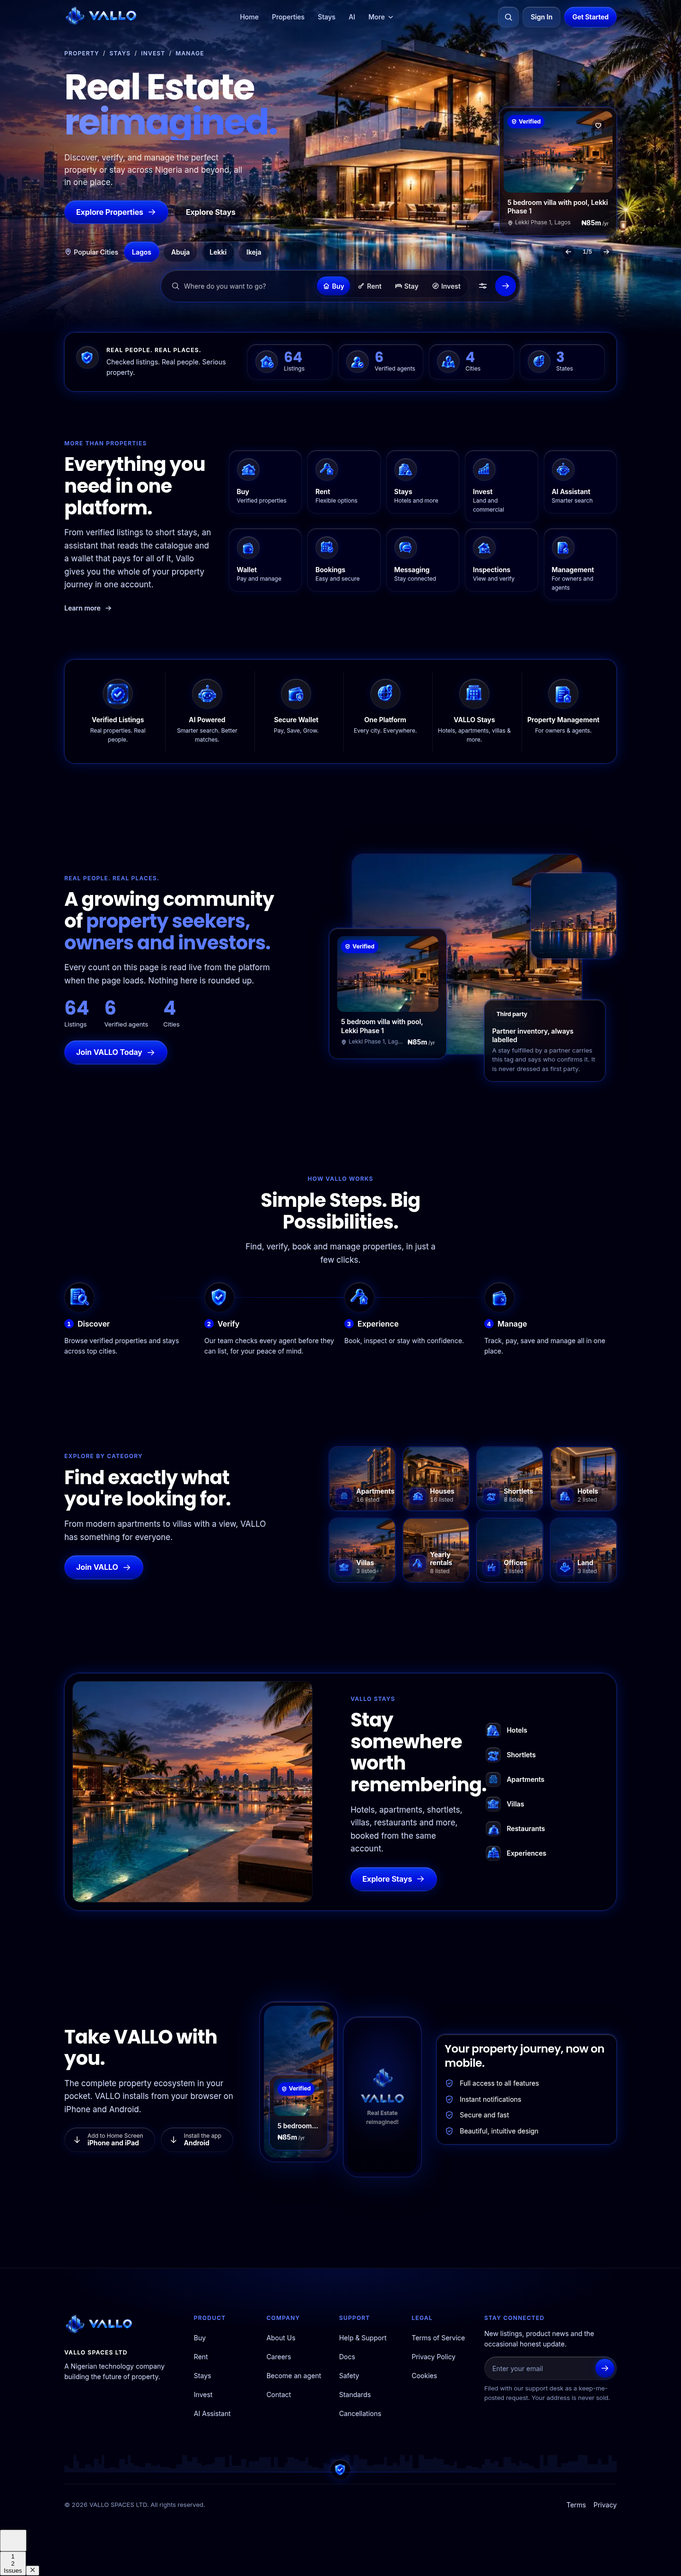
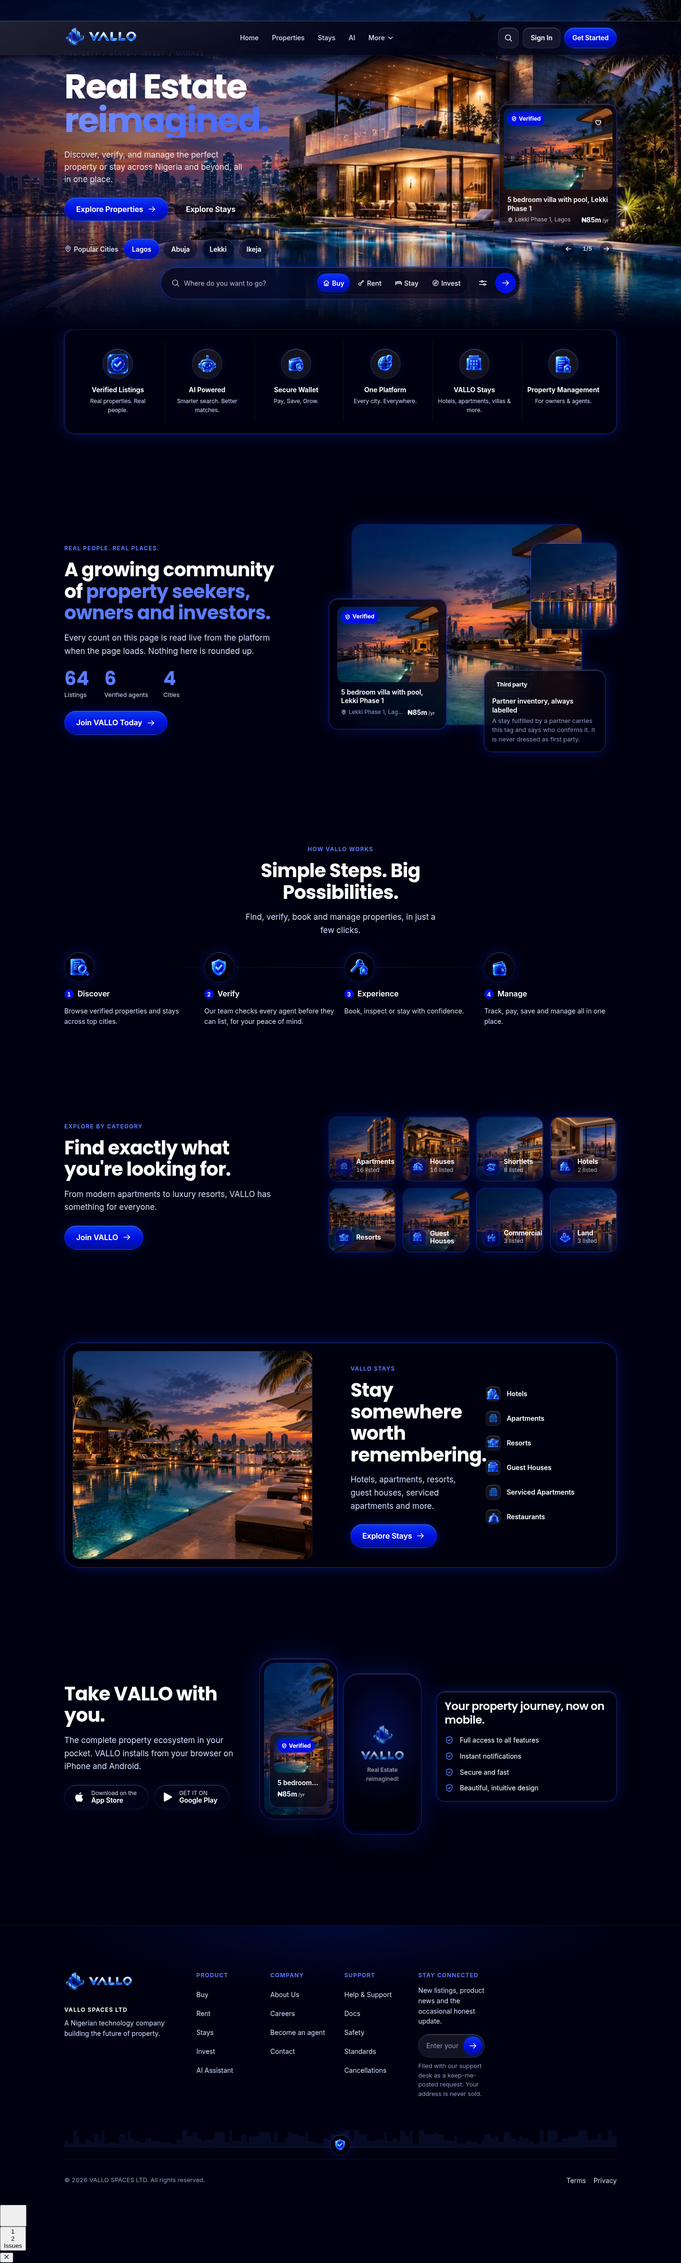
the landing takes the render's order and the render's eight markets
THE ORDER. Two sections stood between the hero and the feature band and
the founder's render has neither. The stats band printed the three
platform figures that the community band prints again two screens later,
so a reader met the same three numbers twice, and the community band is
where the render puts them. The ten-tile "Everything you need in one
platform" grid was navigation the render does not carry, and every
destination in it is reachable from the category tiles below or the
footer's Product column. Both are gone; the stat helper the community
band still needs moved to its own module beside its one caller.

THE EIGHT CATEGORY TILES are now the render's: Apartments, Houses,
Shortlets, Hotels, Resorts, Guest Houses, Commercial, Land. Resorts and
guest houses were left out on a reading that the catalogue does not serve
them. It does: resort and guest_house are stay types in
lib/stays/types.ts, so those two tiles are doors into the Stays search
rather than the property search, which is why a tile now carries its own
href instead of deriving one from a ListingKind. A tile that crosses to
the Stays side prints no count, because the tally counts property kinds
and cannot answer for a stay type, and no number is the honest answer.

THE SIX STAYS ROWS are the render's too: Hotels, Apartments, Resorts,
Guest Houses, Serviced Apartments, Restaurants, every one a stay type the
platform serves. All the new names are translated in Hausa, Igbo and
[…]

diff --git a/apps/web/src/components/site/landing/CategoryGrid.tsx b/apps/web/src/components/site/landing/CategoryGrid.tsx
@@ -11,13 +11,20 @@ import { photo, type PhotoName } from "@/lib/site/photos";
  * Explore by category: eight photo tiles linking to real searches.
  *
  * The render's eight are Apartments, Houses, Shortlets, Hotels, Resorts,
- * Guest Houses, Commercial, Land. Resorts and guest houses are not markets
- * this catalogue has, so a tile for either would link to an empty result,
- * and "Commercial" is two markets (shops, offices) behind one `type`. The
- * eight shipped are the eight real kinds with the most stock: villas and
- * yearly rentals take the two invented slots, and offices stand for
- * commercial. Shops and restaurants keep their place in the stays list and
- * the footer.
+ * Guest Houses, Commercial, Land, and all eight now ship, on the founder's
+ * ruling of 19 September.
+ *
+ * Resorts and guest houses were thought to be markets this catalogue does
+ * not have. They are: `resort` and `guest_house` are both stay types in
+ * lib/stays/types.ts, so those two tiles are doors into the Stays search
+ * rather than the property search, which is why a tile carries its own href
+ * instead of deriving one from a `ListingKind`. Commercial is the office
+ * market, which is the commercial stock the catalogue actually holds.
+ *
+ * A tile that crosses to the Stays side has no `kind`, so it prints no
+ * count: `counts` is a tally of property kinds and cannot answer for a stay
+ * type. No number is the honest answer there, and the design law allows a
+ * tile to stand on its name alone.
  *
  * COUNTS ARE SHOWN ONLY WHEN THEY ARE PROVABLY COMPLETE. `counts` is null
  * unless the page that computed it held the whole catalogue (see
@@ -40,15 +47,23 @@ export function CategoryGrid({
   /* The glyph on each tile is a glass object (the render draws a blue glass
      building in a glass square on every tile), so the whole row is on the
      BrandIcon tier: no stroked glyph sits beside a glass one. */
-  const tiles: { kind: ListingKind; label: string; photo: PhotoName; icon: BrandIconName }[] = [
-    { kind: "apartment", label: c.apartments, photo: "tower-entrance-dusk", icon: "serviced-block" },
-    { kind: "home", label: c.houses, photo: "villa-exterior-gate", icon: "modern-house" },
-    { kind: "shortlet", label: c.shortlets, photo: "villa-pool-terrace", icon: "shortlet" },
-    { kind: "hotel", label: c.hotels, photo: "bedroom-02", icon: "hotel" },
-    { kind: "villa", label: c.villas, photo: "villa-pool-skyline-01", icon: "villa" },
-    { kind: "rental", label: c.rentals, photo: "living-room-dusk", icon: "keys-home" },
-    { kind: "office", label: c.offices, photo: "skyline-waterfront-dusk", icon: "office-space" },
-    { kind: "land", label: c.land, photo: "skyline-bridge-dusk", icon: "land-plot" },
+  const tiles: {
+    key: string;
+    href: string;
+    /** Absent on a tile that crosses to the Stays side; see the note above. */
+    kind?: ListingKind;
+    label: string;
+    photo: PhotoName;
+    icon: BrandIconName;
+  }[] = [
+    { key: "apartment", href: "/search?type=apartment", kind: "apartment", label: c.apartments, photo: "tower-entrance-dusk", icon: "serviced-block" },
+    { key: "home", href: "/search?type=home", kind: "home", label: c.houses, photo: "villa-exterior-gate", icon: "modern-house" },
+    { key: "shortlet", href: "/search?type=shortlet", kind: "shortlet", label: c.shortlets, photo: "villa-pool-terrace", icon: "shortlet" },
+    { key: "hotel", href: "/search?type=hotel", kind: "hotel", label: c.hotels, photo: "bedroom-02", icon: "hotel" },
+    { key: "resort", href: "/stays/search?type=resort", label: c.resorts, photo: "resort-pool-deck", icon: "villa" },
+    { key: "guest_house", href: "/stays/search?type=guest_house", label: c.guestHouses, photo: "villa-pool-skyline-01", icon: "hotel-star" },
+    { key: "office", href: "/search?type=office", kind: "office", label: c.commercial, photo: "skyline-waterfront-dusk", icon: "office-space" },
+    { key: "land", href: "/search?type=land", kind: "land", label: c.land, photo: "skyline-bridge-dusk", icon: "land-plot" },
   ];
 
   return (
@@ -70,14 +85,10 @@ export function CategoryGrid({
         </Reveal>
         <ul className="nf-landing-cats">
           {tiles.map((tile, i) => {
-            const count = counts?.get(tile.kind) ?? 0;
+            const count = tile.kind ? (counts?.get(tile.kind) ?? 0) : 0;
             return (
-              <Reveal as="li" key={tile.kind} delay={i * 40}>
-                <Link
-                  href={`/search?type=${tile.kind}`}
-                  prefetch={false}
-                  className="nf-landing-cat"
-                >
+              <Reveal as="li" key={tile.key} delay={i * 40}>
+                <Link href={tile.href} prefetch={false} className="nf-landing-cat">
                   <Image
                     src={photo(tile.photo)}
                     alt=""

diff --git a/packages/i18n/src/locales/en.ts b/packages/i18n/src/locales/en.ts
@@ -478,29 +478,41 @@ export const en = {
       categories: {
         overline: "Explore by category",
         title: "Find exactly what you're looking for.",
-        body: "From modern apartments to villas with a view, VALLO has something for everyone.",
+        body: "From modern apartments to luxury resorts, VALLO has something for everyone.",
         join: "Join VALLO",
         apartments: "Apartments",
         houses: "Houses",
         shortlets: "Shortlets",
         hotels: "Hotels",
-        villas: "Villas",
-        rentals: "Yearly rentals",
-        offices: "Offices",
+        /* The founder's render names these three and the Stays side really
+           serves all three, so they are doors into markets that exist:
+           `resort` and `guest_house` are stay types in lib/stays/types.ts,
+           and Commercial is the office market the catalogue holds. Villas and
+           yearly rentals stood in these slots while the three were thought
+           unavailable; both remain reachable from the search filters. */
+        resorts: "Resorts",
+        guestHouses: "Guest Houses",
+        commercial: "Commercial",
         land: "Land",
         count: "{count} listed",
       },
       stays: {
         overline: "VALLO Stays",
         title: "Stay somewhere worth remembering.",
-        body: "Hotels, apartments, shortlets, villas, restaurants and more, booked from the same account.",
+        body: "Hotels, apartments, resorts, guest houses, serviced apartments and more.",
         cta: "Explore Stays",
+        /* The render's six rows, and the Stays side serves every one of them:
+           `hotel`, `apartment`, `resort`, `guest_house` and
+           `serviced_apartments` are stay types in lib/stays/types.ts, and
+           restaurants have their own surface. Shortlets, villas and
+           experiences stood in three of these slots and are still reachable
+           from the stays search. */
         hotels: "Hotels",
-        shortlets: "Shortlets",
         apartments: "Apartments",
-        villas: "Villas",
+        resorts: "Resorts",
+        guestHouses: "Guest Houses",
+        serviced: "Serviced Apartments",
         restaurants: "Restaurants",
-        experiences: "Experiences",
       },
       app: {
         title: "Take VALLO with you.",

diff --git a/apps/web/src/components/site/landing/stat-tiles.ts b/apps/web/src/components/site/landing/stat-tiles.ts
@@ -1,0 +1,31 @@
+import type { Dictionary } from "@vallo/i18n";
+import type { PlatformStats } from "@/lib/platform-stats";
+
+/**
+ * The three platform figures, and the one rule about them.
+ *
+ * The founder's render prints "10K+ properties, 5K+ happy clients, 200+
+ * agents and partners". Not one of those is a number this platform can
+ * stand behind today, and a figure a reader cannot check is the fake social
+ * proof the rules forbid outright. So this returns ONLY what
+ * `platform_stats()` actually answers: published listings, agents a person
+ * has verified, and the distinct cities and states those listings sit in. A
+ * count of zero is dropped rather than rounded up, and when the database
+ * cannot answer at all the caller gets an empty list and prints no figures,
+ * which is the honest version of the render's band.
+ *
+ * This lived beside a `StatsBand` component that stood between the hero and
+ * the feature band. The render has no such band: it prints these figures
+ * once, inside the community section, which is the only caller now. The
+ * component is gone and the rule it carried is here, where the caller is.
+ */
+export function statTiles(stats: PlatformStats | null, t: Dictionary) {
+  if (!stats) return [];
+  const s = t.landing.face.stats;
+  return [
+    { key: "listings", value: stats.listings, label: s.listings, icon: "home-check" as const },
+    { key: "agents", value: stats.agents, label: s.agents, icon: "user-verified" as const },
+    { key: "cities", value: stats.cities, label: s.cities, icon: "map-spot" as const },
+    { key: "states", value: stats.states, label: s.states, icon: "globe-pin" as const },
+  ].filter((tile) => tile.value > 0);
+}

diff --git a/apps/web/src/components/site/landing/LandingBody.tsx b/apps/web/src/components/site/landing/LandingBody.tsx
@@ -4,8 +4,6 @@ import type { ListingKind } from "@/lib/listings/types";
 import { getPlatformStats, type PlatformStats } from "@/lib/platform-stats";
 import { toMiniListing, type MiniListing } from "@/lib/site/listing-card";
 import { Hero } from "./Hero";
-import { StatsBand } from "./StatsBand";
-import { FeatureGrid } from "./FeatureGrid";
 import { FeatureChips } from "./FeatureChips";
 import { CommunityBand } from "./CommunityBand";
 import { HowVallo } from "./HowVallo";
@@ -64,9 +62,21 @@ export function LandingBody({
   const first = data.cards[0] ?? null;
   return (
     <main id="main">
+      {/*
+        THE RENDER'S ORDER, on the founder's ruling of 19 September: hero,
+        feature band, community, how it works, category, stays, app.
+
+        Two sections stood between the hero and the feature band and neither
+        is in his render. The stats band printed the three platform figures
+        that the community band prints again two screens later, so a reader
+        met the same three numbers twice; the community band is where the
+        render puts them and it already takes `stats`. The ten-tile
+        "Everything you need in one platform" grid was navigation the render
+        does not carry, and every destination in it is reachable from the
+        category grid below or the footer's Product column, so removing it
+        costs the reader no door.
+      */}
       <Hero t={t} locale={locale} cards={data.cards} />
-      <StatsBand t={t} locale={locale} stats={data.stats} />
-      <FeatureGrid t={t} />
       <FeatureChips t={t} />
       <CommunityBand t={t} locale={locale} listing={first} stats={data.stats} />
       <HowVallo t={t} />

diff --git a/apps/web/src/components/site/landing/StaysBand.tsx b/apps/web/src/components/site/landing/StaysBand.tsx
@@ -16,12 +16,15 @@ export function StaysBand({ t }: { t: Dictionary }) {
   /* Glass objects, not stroked glyphs: the render draws a blue glass mark in
      a glass square on every row, and a row never mixes the two tiers. */
   const list: { href: string; label: string; icon: BrandIconName }[] = [
+    /* The render's six, in its order. Every href is a stay type the Stays
+       side actually serves (lib/stays/types.ts) or, for restaurants, their
+       own surface, so no row here is a door into an empty room. */
     { href: "/stays/search?type=hotel", label: s.hotels, icon: "hotel" },
-    { href: "/stays/search?type=shortlet", label: s.shortlets, icon: "shortlet" },
     { href: "/stays/search?type=apartment", label: s.apartments, icon: "apartment-block" },
-    { href: "/stays/search?type=villa", label: s.villas, icon: "villa" },
+    { href: "/stays/search?type=resort", label: s.resorts, icon: "villa" },
+    { href: "/stays/search?type=guest_house", label: s.guestHouses, icon: "hotel-star" },
+    { href: "/stays/search?type=serviced_apartments", label: s.serviced, icon: "serviced-block" },
     { href: "/restaurants", label: s.restaurants, icon: "concierge-bell" },
-    { href: "/search?type=experience", label: s.experiences, icon: "map-route" },
   ];
   return (
     <section className="nf-shell py-section" aria-labelledby="nf-landing-stays-title">

diff --git a/packages/i18n/src/locales/yo.ts b/packages/i18n/src/locales/yo.ts
@@ -394,9 +394,9 @@ export const yo: Dictionary = withFallback({
         houses: "Ilé",
         shortlets: "Ìyálé kúkúrú",
         hotels: "Hótẹ́lì",
-        villas: "Villa",
-        rentals: "Ìyálé ọdún",
-        offices: "Ọ́fíìsì",
+        resorts: "Ibi ìsinmi",
+        guestHouses: "Ilé àlejò",
+        commercial: "Ìṣòwò",
         land: "Ilẹ̀",
         count: "{count} ni a kọ sílẹ̀",
       },
@@ -406,11 +406,11 @@ export const yo: Dictionary = withFallback({
         body: "Hótẹ́lì, ìyálé kúkúrú, ilé, villa, ilé oúnjẹ àti ìrírí, tí a forúkọ sílẹ̀ láti àkáǹtì kan náà.",
         cta: "Ṣàwárí ibùgbé",
         hotels: "Hótẹ́lì",
-        shortlets: "Ìyálé kúkúrú",
         apartments: "Ilé gbígbé",
-        villas: "Villa",
+        resorts: "Ibi ìsinmi",
+        guestHouses: "Ilé àlejò",
+        serviced: "Ilé ìtọ́jú",
         restaurants: "Ilé oúnjẹ",
-        experiences: "Ìrírí",
       },
       app: {
         title: "Mú Vallo lọ pẹ̀lú rẹ.",

diff --git a/packages/i18n/src/locales/ig.ts b/packages/i18n/src/locales/ig.ts
@@ -396,9 +396,9 @@ export const ig: Dictionary = withFallback({
         houses: "Ụlọ",
         shortlets: "Mgbazinye mkpirikpi",
         hotels: "Ụlọ oriri",
-        villas: "Villa",
-        rentals: "Mgbazinye kwa afọ",
-        offices: "Ụlọ ọrụ",
+        resorts: "Ebe izumike",
+        guestHouses: "Ụlọ ọbịa",
+        commercial: "Azụmahịa",
         land: "Ala",
         count: "{count} edepụtara",
       },
@@ -408,11 +408,11 @@ export const ig: Dictionary = withFallback({
         body: "Ụlọ oriri, mgbazinye mkpirikpi, ụlọ, villa, ụlọ nri na ahụmahụ, edebanyere site n'otu akaụntụ.",
         cta: "Chọgharịa ebe obibi",
         hotels: "Ụlọ oriri",
-        shortlets: "Mgbazinye mkpirikpi",
         apartments: "Ụlọ obibi",
-        villas: "Villa",
+        resorts: "Ebe izumike",
+        guestHouses: "Ụlọ ọbịa",
+        serviced: "Ụlọ obibi enyemaka",
         restaurants: "Ụlọ nri",
-        experiences: "Ahụmahụ",
       },
       app: {
         title: "Were Vallo soro gị.",

diff --git a/packages/i18n/src/locales/ha.ts b/packages/i18n/src/locales/ha.ts
@@ -395,9 +395,9 @@ export const ha: Dictionary = withFallback({
         houses: "Gidaje",
         shortlets: "Gajeren haya",
         hotels: "Otal-otal",
-        villas: "Villa",
-        rentals: "Hayar shekara",
-        offices: "Ofisoshi",
+        resorts: "Wuraren hutu",
+        guestHouses: "Gidajen baƙi",
+        commercial: "Kasuwanci",
         land: "Filaye",
         count: "{count} aka lissafa",
       },
@@ -407,11 +407,11 @@ export const ha: Dictionary = withFallback({
         body: "Otal-otal, gajeren haya, gidaje, villa, gidajen abinci da abubuwan more rayuwa, an ajiye daga asusu ɗaya.",
         cta: "Bincika masauki",
         hotels: "Otal-otal",
-        shortlets: "Gajeren haya",
         apartments: "Gidajen haya",
-        villas: "Villa",
+        resorts: "Wuraren hutu",
+        guestHouses: "Gidajen baƙi",
+        serviced: "Gidajen hidima",
         restaurants: "Gidajen abinci",
-        experiences: "Abubuwan more rayuwa",
       },
       app: {
         title: "Ɗauki Vallo tare da kai.",

diff --git a/apps/web/src/components/site/landing/CommunityBand.tsx b/apps/web/src/components/site/landing/CommunityBand.tsx
@@ -7,7 +7,7 @@ import type { MiniListing } from "@/lib/site/listing-card";
 import { photo } from "@/lib/site/photos";
 import type { PlatformStats } from "@/lib/platform-stats";
 import { ListingMini } from "./ListingMini";
-import { statTiles } from "./StatsBand";
+import { statTiles } from "./stat-tiles";
 
 /**
  * The community band: copy and three honest figures on the left, the
